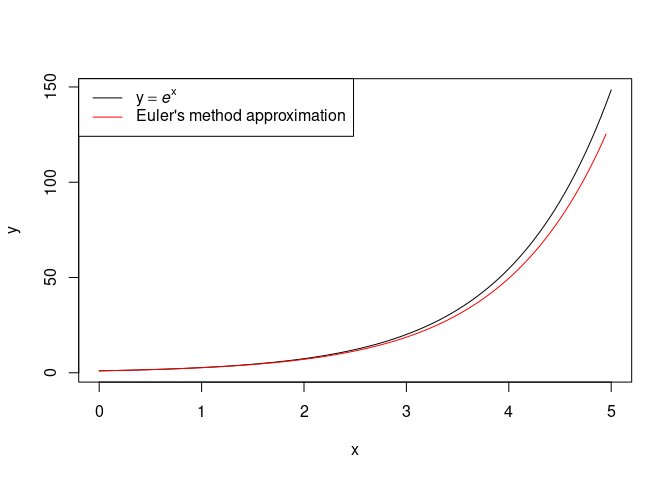
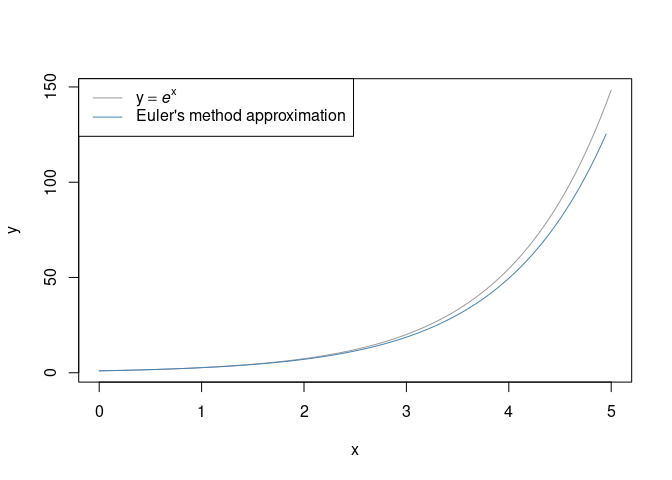
Made plots prettier

diff --git a/handy_algorithms.md b/handy_algorithms.md
@@ -1,7 +1,7 @@
 Handy Algorithms
 ================
 Adam Bartonicek
-(last updated: 2021-04-08)
+(last updated: 2021-04-27)
 
 -   [Euler’s method](#eulers-method)
 -   [Determinant by row-operations](#determinant-by-row-operations)
@@ -23,7 +23,7 @@ stepsize:
 
 ``` r
 # Derivative of function y
-dy <- function(x, y) y
+dy <- function(y) y
 
 # Inputs: derivative function, initial x, initial y, stepsize, length
 euler <- function(dy = NULL, x0 = 0, y0 = 1, stepsize = 0.1, len = 100) {
@@ -38,7 +38,7 @@ euler <- function(dy = NULL, x0 = 0, y0 = 1, stepsize = 0.1, len = 100) {
   #          2) increment y by stepsize times derivative
   for (i in 2:len) {
     x[i] <- x[i - 1] + stepsize
-    y[i] <- y[i - 1] + stepsize * dy(x[i - 1], y[i - 1])
+    y[i] <- y[i - 1] + stepsize * dy(y[i - 1])
   }
 
   # Return list of x's and y's
@@ -49,13 +49,10 @@ euler <- function(dy = NULL, x0 = 0, y0 = 1, stepsize = 0.1, len = 100) {
 b <- euler(dy, stepsize = 0.05)
 x <- seq(0, 5, length.out = 100)
 
-plot(x, exp(x), type = 'l', xlab = 'x', ylab = 'y')
-lines(b$x, b$y, col = 'red')
-legend('topleft', col = c('black', 'red'), lwd = c(1, 1), 
-       legend = c(expression(y == italic(e)^x), "Euler's method approximation"))
+# Plot code not shown (see .Rmd)
 ```
 
-![](handy_algorithms_files/figure-gfm/unnamed-chunk-1-1.png)<!-- -->
+<img src="handy_algorithms_files/figure-gfm/unnamed-chunk-3-1.png" style="display: block; margin: auto;" />
 
 ## Determinant by row-operations
 
@@ -141,25 +138,18 @@ cdf <- function(x) {
   integrate(pdf, 0, x)[[1]]
 }
 
-# Make inverse CDF by approximating a vector of cumulative densities
-# numerically (via linear approximation)
+# Make inverse CDF by numeric approximation (linear)
 cumdens <- sapply(seq(0.01, 5, 0.01), cdf)
 icdf <- approxfun(cumdens, seq(0.01, 5, 0.01))
 
-# Draw random samples & transform them via ICDF (and also randomly flip sign
-# so that we get both positive & negative values)
+# Draw random samples & transform via ICDF (+ flip sign)
 samples <- runif(10000, 0, 0.5)
 x <- icdf(samples) * ifelse(runif(1000, 0, 2) > 1, 1, -1)
 
-par(mfrow = c(1, 2))
-
-plot(seq(-3, 3, 0.1), pdf(seq(-3, 3, 0.1)), type = 'l',
-     xlab = 'x', ylab = 'Density', main = 'Probability density function')
-hist(x, main = 'Random samples')
-box()
+# Plot code not shown (see .Rmd)
 ```
 
-![](handy_algorithms_files/figure-gfm/unnamed-chunk-3-1.png)<!-- -->
+<img src="handy_algorithms_files/figure-gfm/unnamed-chunk-6-1.png" style="display: block; margin: auto;" />
 
 ## Pseudo-random number generation (linear congruential generator)
 
@@ -188,8 +178,20 @@ for (i in 2:nsamples) {
   s[i] = (a * s[i - 1] + b) %% M
 }
 
-plot(1:nsamples, s, type = 'l',
-     xlab = 'Sample', ylab = 'Value')
+# Plot code not shown (see .Rmd)
 ```
 
-![](handy_algorithms_files/figure-gfm/unnamed-chunk-4-1.png)<!-- -->
+``` r
+y_breaks <- seq(0, 2.5, by = 0.5) * 1e5
+
+plot(1:nsamples, s, type = 'l',
+     xlab = '', ylab = '', 
+     col = col_highlight, lwd = 1.5,
+     axes = FALSE)
+axis(1, tick = FALSE, line = -0.5)
+mtext('Iteration', 1, line = 2, family = 'serif')
+mtext('Value', 2, line = 0.75, family = 'serif', las = 0)
+box(col = col_fade)
+```
+
+<img src="handy_algorithms_files/figure-gfm/unnamed-chunk-8-1.png" style="display: block; margin: auto;" />
